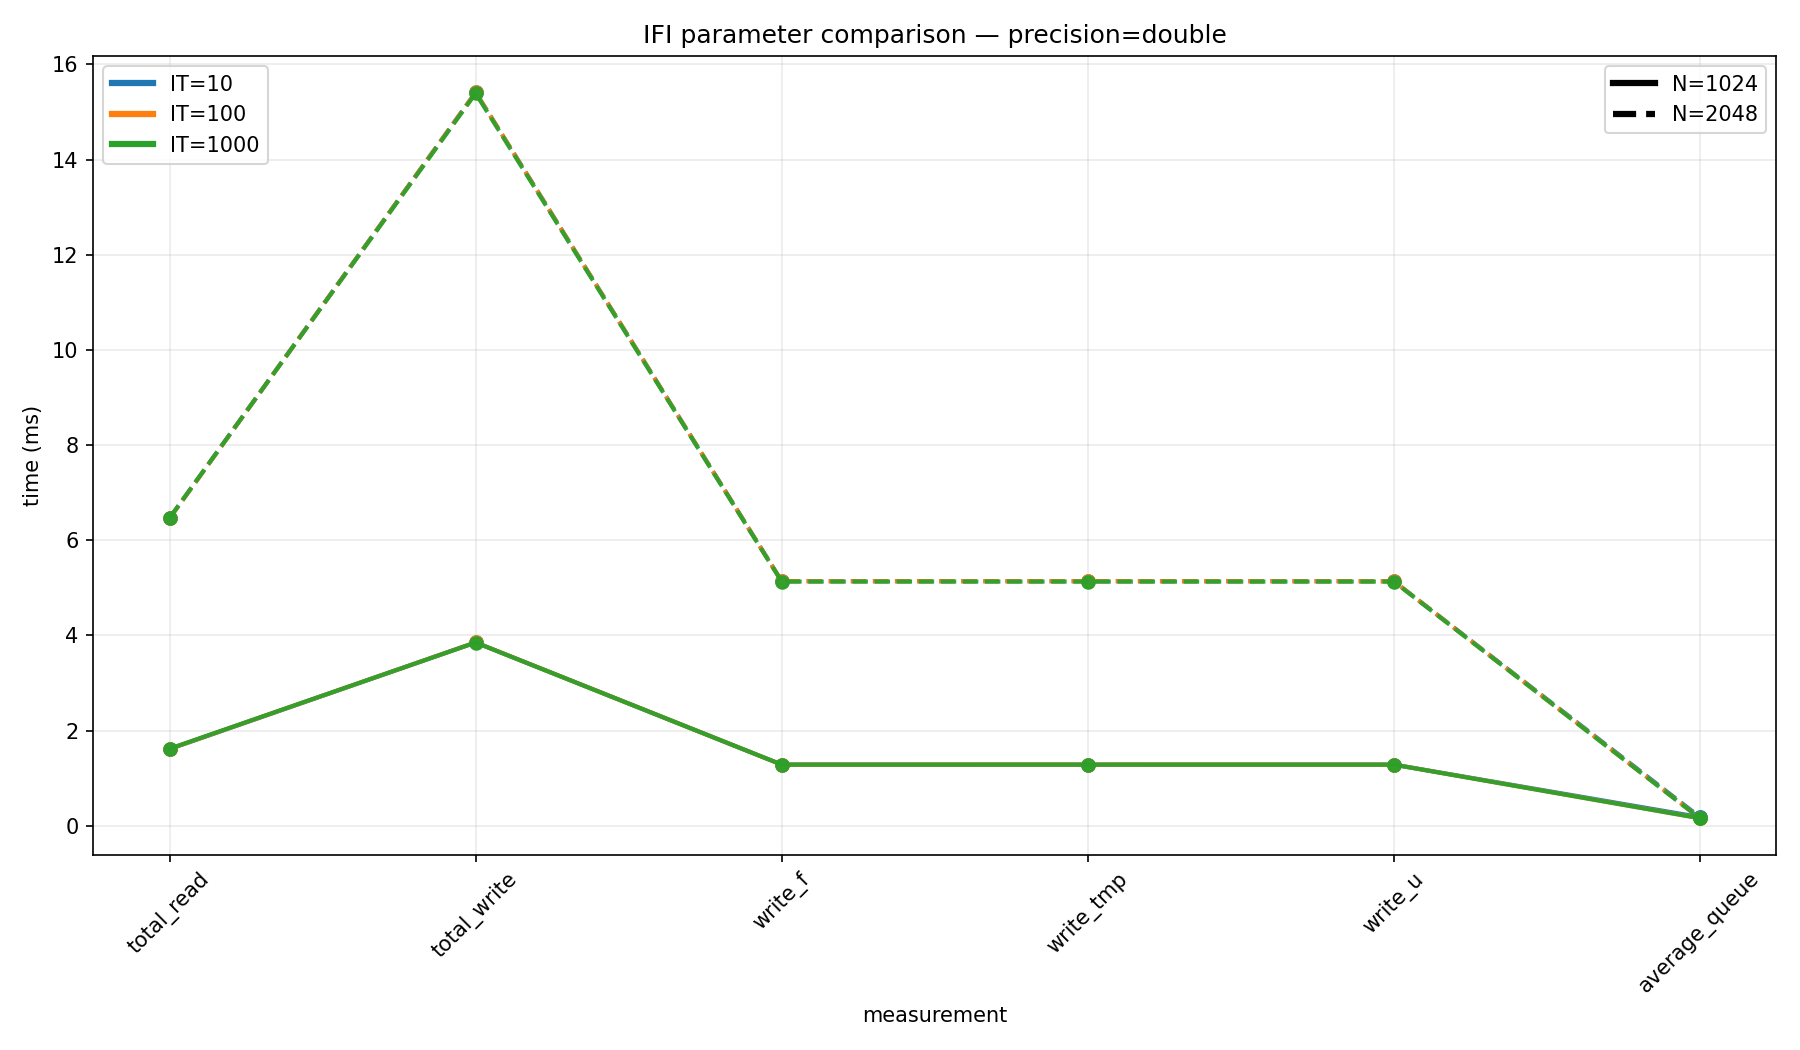
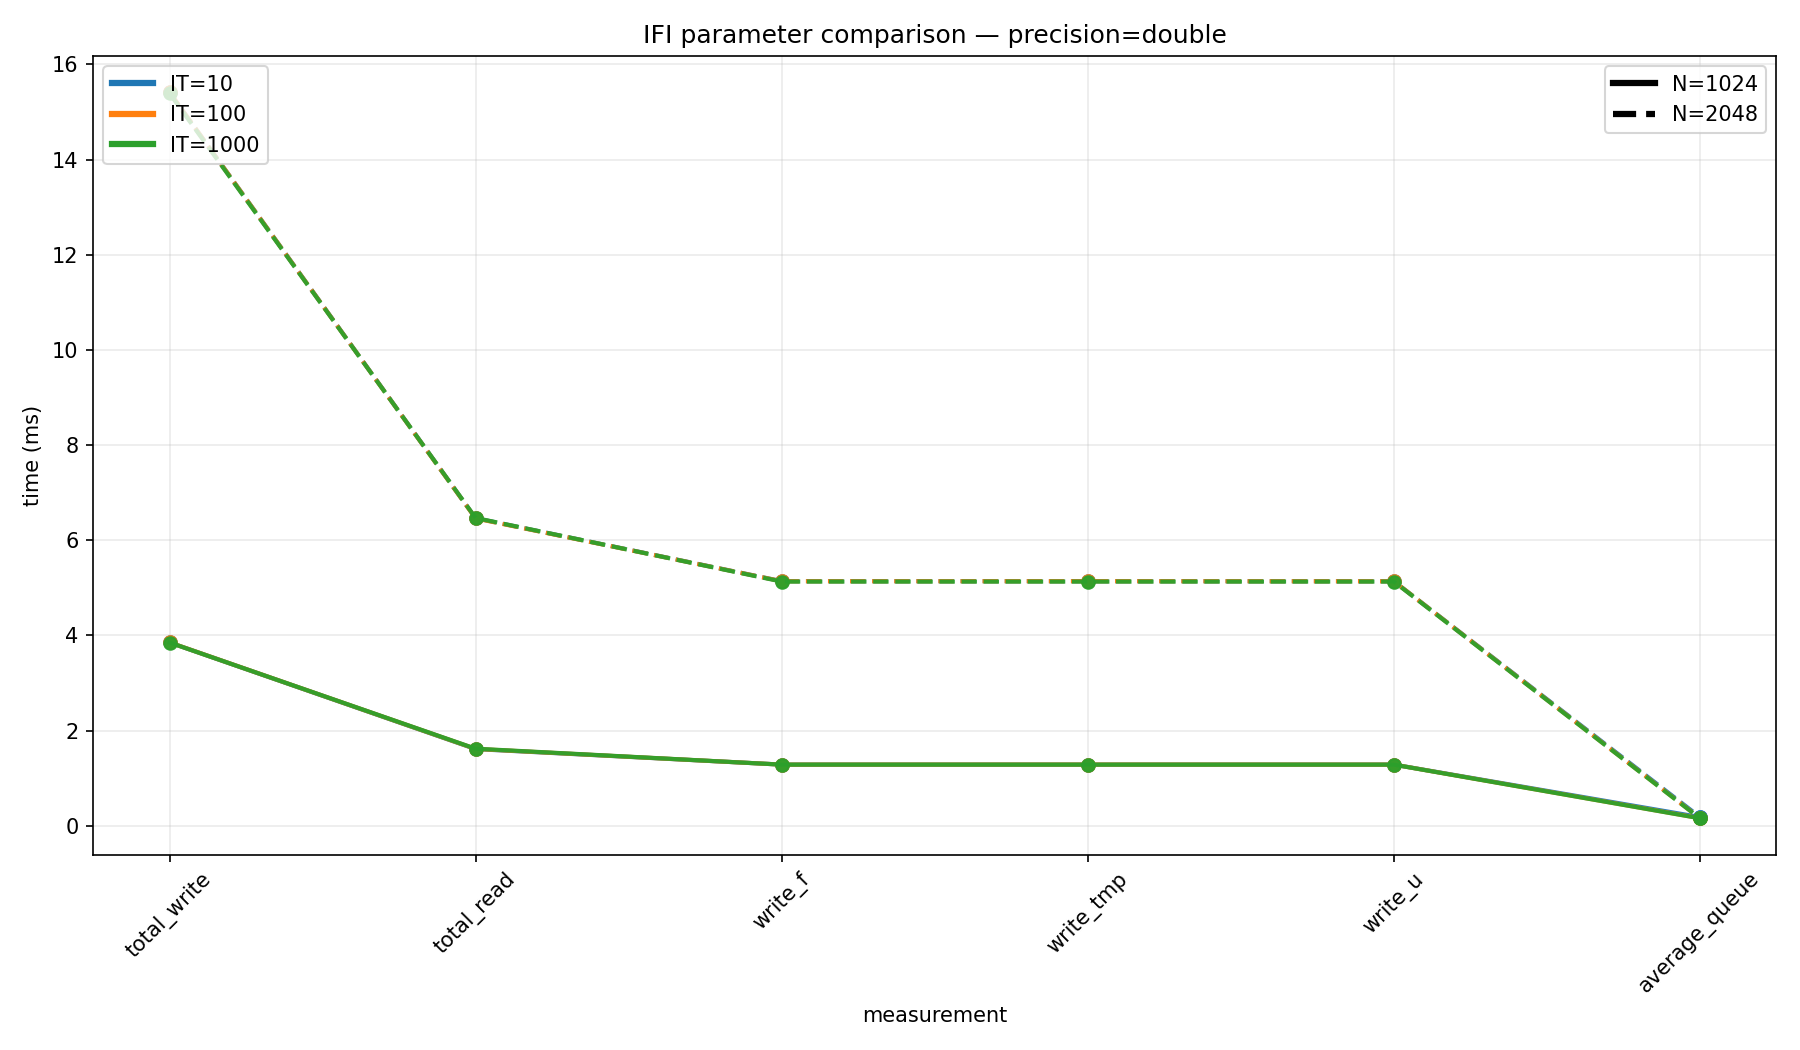
changed order

diff --git a/exercise_3/plot_results.py b/exercise_3/plot_results.py
@@ -12,7 +12,7 @@ OUT_DIR = "plots"
 os.makedirs(OUT_DIR, exist_ok=True)
 
 # Time columns to plot
-TIME_COLS = ["total_read", "total_write", 
+TIME_COLS = ["total_write", "total_read",
             "write_f", "write_tmp", "write_u", "average_queue"]
 
 # device info
